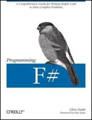
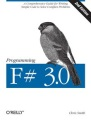
Updated "Programming F# 3.0" book

Changed region(s): [[0.0659, 0.175, 0.9451, 0.75], [0.0, 0.0, 1.0, 1.0], [0.6374, 0.9, 0.9451, 0.95]]

diff --git a/about/learning.md b/about/learning.md
@@ -87,7 +87,7 @@ use "over" other languages. They assume that you are considering this book
 because you have an interest in learning the F# language.
 
 
-### Programming F&#35;
+### Programming F# 3.0
 
 <img src="files/BookPGF.jpg" style="float:right;margin:5px 0px 5px 25px;" />
 
